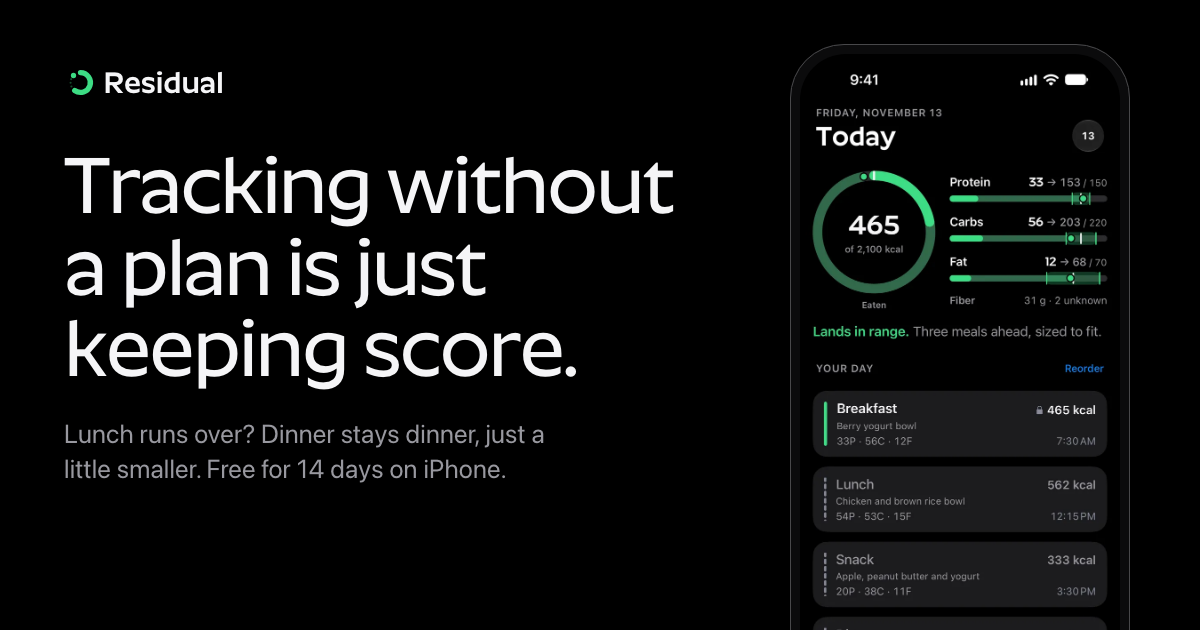
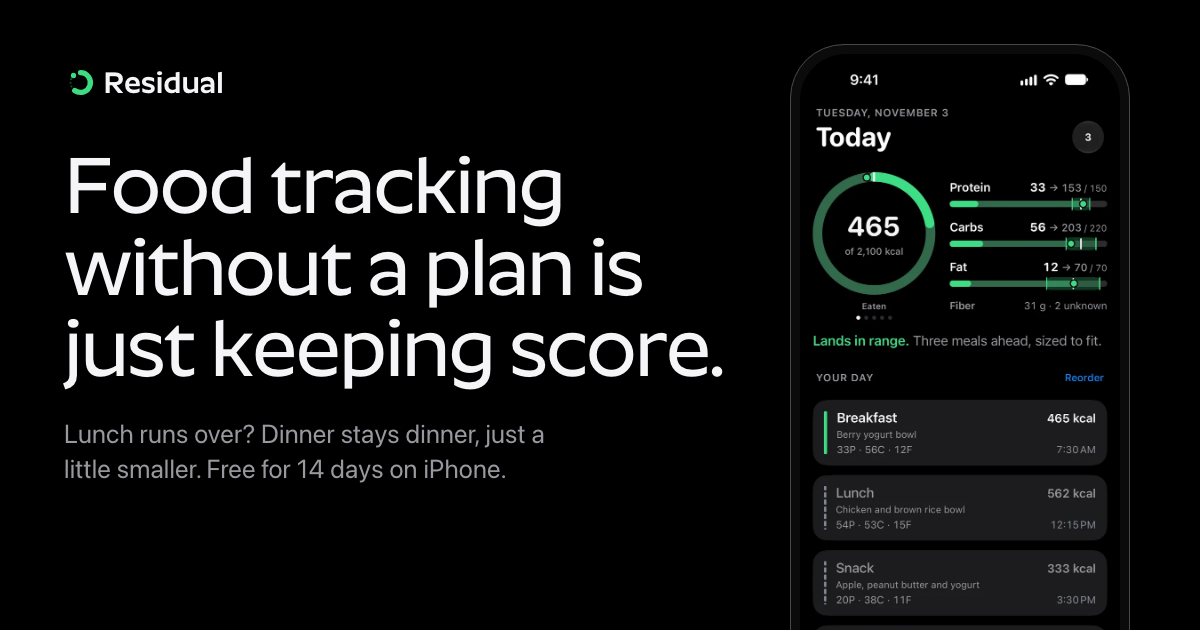
name what's tracked in the headline: "Food tracking without a plan is just keeping score." (2026-11-19, Clark: "when someone reads that they have to infer what they're tracking"). The hero breaks it as Food tracking / without a plan is / just keeping score., and its cap drops from 13cqi to 11.8cqi b

diff --git a/src/content/help/getting-started/how-residual-works.md b/src/content/help/getting-started/how-residual-works.md
@@ -10,7 +10,7 @@ since: "1.0"
 
 ## The idea
 
-Most trackers record what you ate and show what's left. Working out what to eat with what's left is up to you. Residual starts from a plan instead. The first page you see in the app puts it this way: tracking without a plan is just keeping score.
+Most trackers record what you ate and show what's left. Working out what to eat with what's left is up to you. Residual starts from a plan instead. The first page you see in the app puts it this way: food tracking without a plan is just keeping score.
 
 So a day in Residual has two sides. The plan is what you mean to eat. The log is what you ate. Logging never overwrites the plan; it sits beside it, and the difference between them is what the app works with.
 
